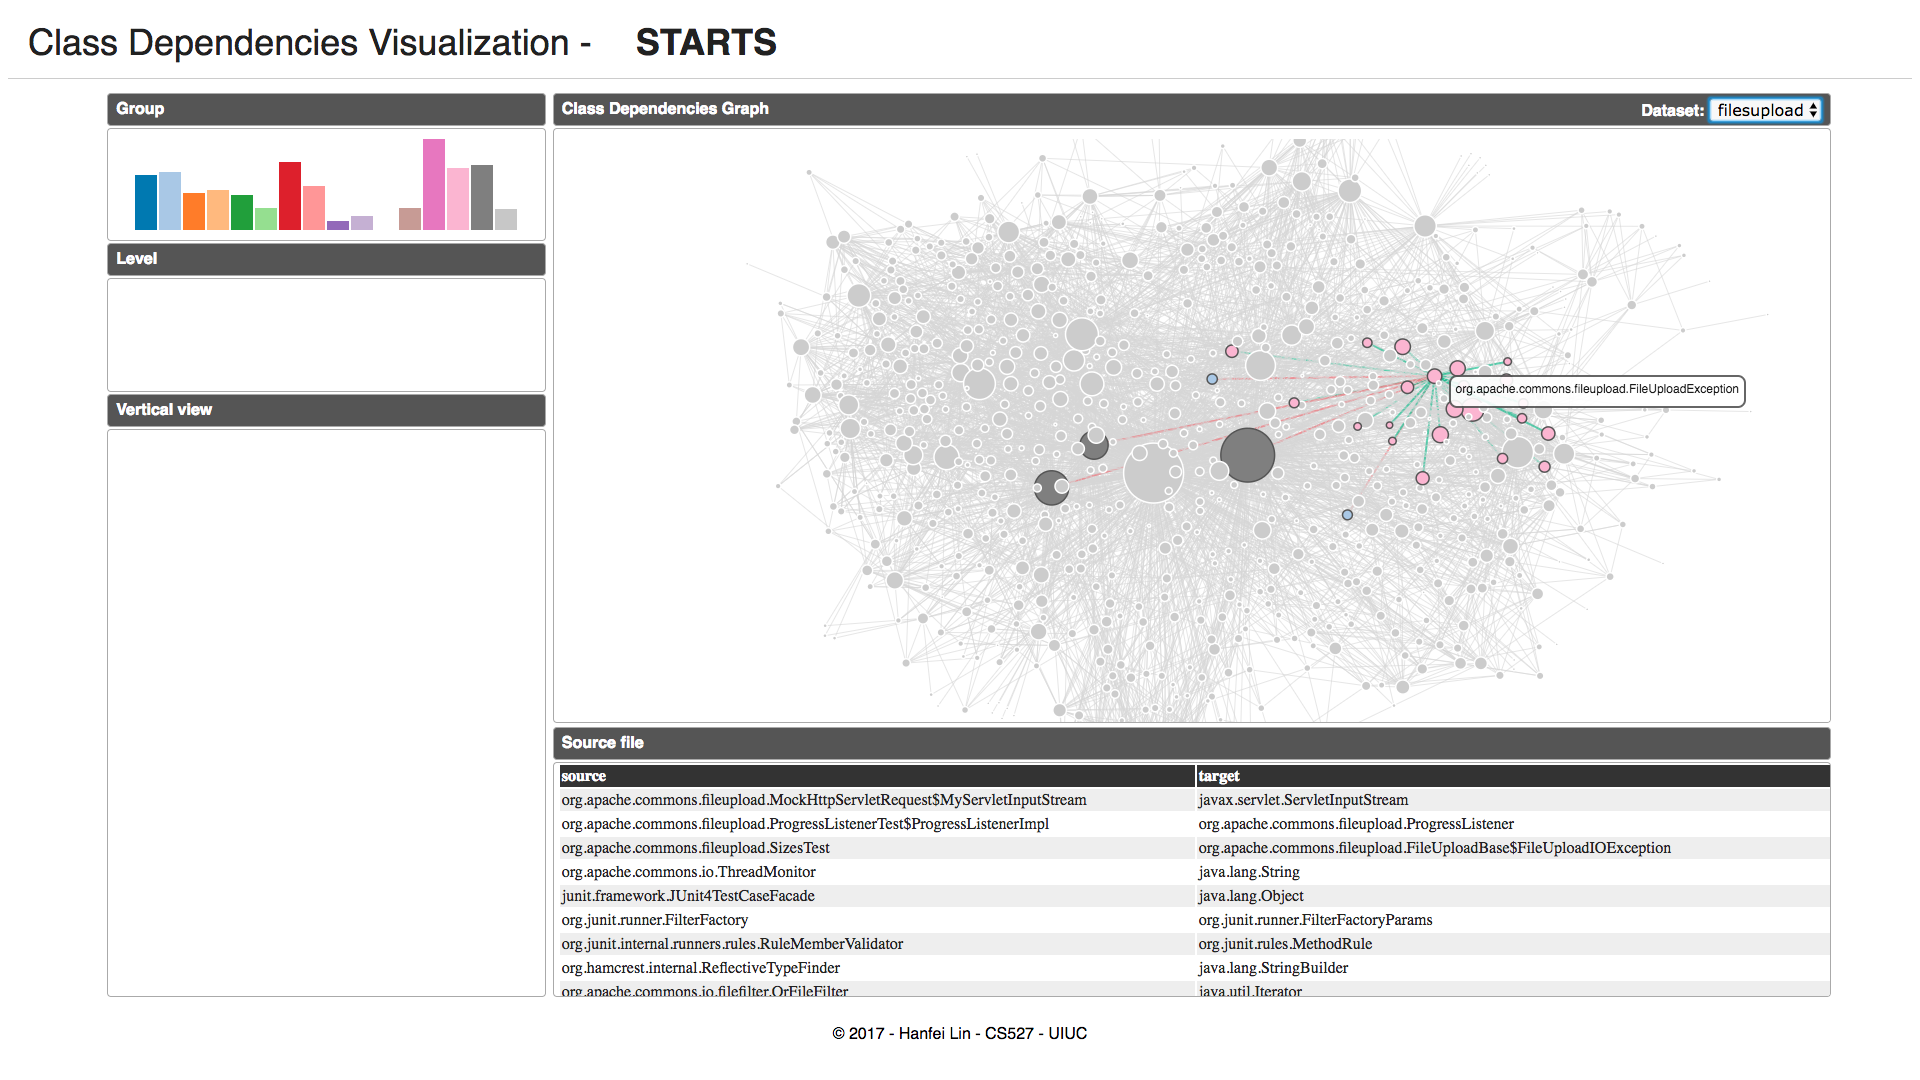
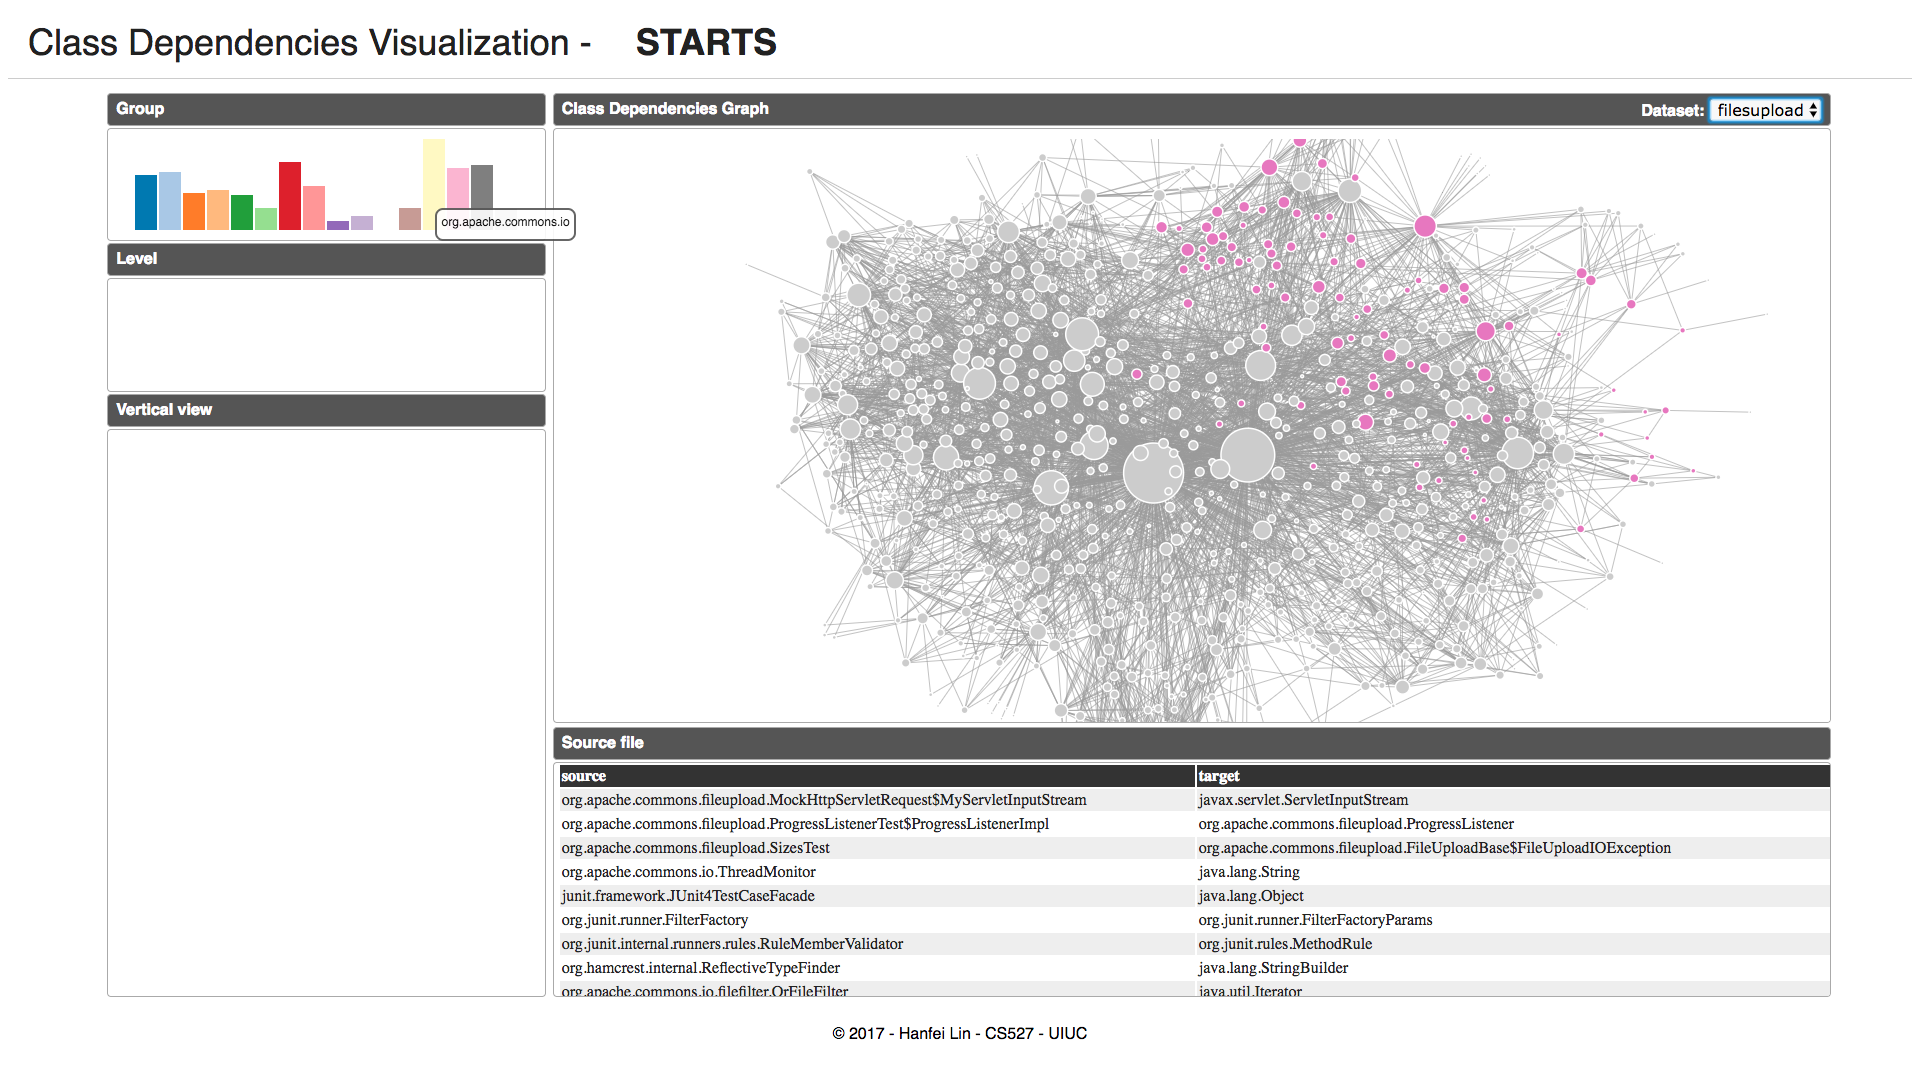
add select function

Changed region(s): [[0.4062, 0.1222, 0.9062, 0.6722], [0.2188, 0.1222, 0.3125, 0.2139]]

diff --git a/Class_dependencies_vis/app/static/js/mainview.js b/Class_dependencies_vis/app/static/js/mainview.js
@@ -31,8 +31,9 @@ vis.mainview = function(){
 	// Private Parameters
 	var nodes = [],
 			links = [],
-			simulation,
-			color;
+			selected = [];
+			simulation = null,
+			color = null;
 
 	///////////////////////////////////////////////////
 	// Public Function
@@ -40,6 +41,10 @@ vis.mainview = function(){
 
 		size[0] = parseInt(container.style("width"));
 		size[1] = parseInt(container.style("height"));
+
+		for(var i = 0; i < data.nodes.length; i++){
+			selected[data.nodes[i].id] = false;
+		}
 
 		return mainview;
 	};
@@ -117,28 +122,14 @@ vis.mainview = function(){
 				d3.selectAll("line").classed("unHighlightLinks", true);
 				d3.selectAll("circle").classed("classNodeUnlight", true);
 
-				//highlight the circle
-				d3.select(this).classed("classNode", false);
-				d3.select(this).classed("classNodeUnlight", false);
-				d3.select(this).classed("classNodeHightlight", true);
-
-				//highlight the links
-				for(var i = 0; i < data.links.length; i++){
-					//red: children
-					if (data.links[i].source.id == d.id){
-						d3.select("#l" + data.links[i].id).classed("unHighlightLinks", false);
-						d3.select("#l" + data.links[i].id).classed("highlightLinks1", true);
-						d3.select("#c" + data.links[i].target.id).classed("classNodeUnlight", false);
-						d3.select("#c" + data.links[i].target.id).classed("classNodeHightlight", true);
-					}
-					//green: fathers
-					if (data.links[i].target.id == d.id){
-						d3.select("#l" + data.links[i].id).classed("unHighlightLinks", false);
-						d3.select("#l" + data.links[i].id).classed("highlightLinks2", true);
-						d3.select("#c" + data.links[i].source.id).classed("classNodeUnlight", false);
-						d3.select("#c" + data.links[i].source.id).classed("classNodeHightlight", true);
+				for (i in selected){
+					if (selected[i]){
+						highlight(i, true);
 					}
 				}
+
+				highlight(d.id, true);
+
 			})
 
 			.on("mouseout", function(d){
@@ -148,16 +139,36 @@ vis.mainview = function(){
 						.duration(500)
 						.style("opacity", 0);
 
-				d3.selectAll("line").classed("highlightLinks1", false);
-				d3.selectAll("line").classed("highlightLinks2", false);
-				d3.selectAll("line").classed("unHighlightLinks", false);
-				d3.selectAll("circle").classed("classNodeUnlight", false);
-				d3.selectAll("circle").classed("classNodeHightlight", false);
+				if (!selected[d.id]){
+					highlight(d.id, false);
+				}
 
-				d3.select(this).classed("classNode", true);
+				for (i in selected){
+					if (selected[i]){
+						highlight(i, true);
+					}
+				}
+
 			})
 			.on("click", function(d){
-				dispatch.call("select", this, d);
+
+				var flag = selected[d.id];
+
+				for (i in selected){
+					selected[i] = false;
+				}
+
+				highlight(-1, false);
+
+				flag ? selected[d.id] = false : selected[d.id] = true;
+
+				if (selected[d.id]){
+					highlight(d.id, true);
+				} else {
+					highlight(d.id, false);
+				}
+
+				dispatch.call("select", this, d, selected[d.id]);
 			})
       .call(d3.drag()
           .on("start", dragstartedNode)
@@ -213,6 +224,41 @@ vis.mainview = function(){
 		return mainview;
 	};
 
+	mainview.select = function(className) {
+
+		var d = null;
+
+		console.log(data.nodes[0])
+
+		for (var i = 0; i < data.nodes.length; i++){
+			if (data.nodes[i].value == className){
+				d = data.nodes[i];
+			}
+		}
+
+		if (d == null){
+			return;
+		}
+		
+		var flag = selected[d.id];
+
+		for (i in selected){
+			selected[i] = false;
+		}
+
+		highlight(-1, false);
+
+		flag ? selected[d.id] = false : selected[d.id] = true;
+
+		if (selected[d.id]){
+			highlight(d.id, true);
+		} else {
+			highlight(d.id, false);
+		}
+
+		dispatch.call("select", this, d, selected[d.id]);
+	}
+
 	mainview.showGroup = function(group, show){
 		if (show){
 			container.selectAll(".classNode").classed("classNodeUnlight", true);
@@ -227,8 +273,48 @@ vis.mainview = function(){
 	///////////////////////////////////////////////////
 	// Private Functions
 
-	function private_function1() {
+	function highlight(j, flag) {
 
+		if (!flag){
+
+			d3.selectAll("line").classed("highlightLinks1", false);
+			d3.selectAll("line").classed("highlightLinks2", false);
+			d3.selectAll("line").classed("unHighlightLinks", false);
+			d3.selectAll("circle").classed("classNodeUnlight", false);
+			d3.selectAll("circle").classed("classNodeHightlight", false);
+			d3.selectAll("circle").classed("classNodeSelected", false);
+
+			if (j != -1){
+				d3.select("#c" + j).classed("classNode", true);
+			} else {
+				d3.selectAll("circle").classed("classNode", true);
+			}
+
+			return;
+		}
+
+		//highlight the circle
+		d3.select("#c" + j).classed("classNode", false);
+		d3.select("#c" + j).classed("classNodeUnlight", false);
+		d3.select("#c" + j).classed("classNodeSelected", true);
+
+		//highlight the links
+		for(var i = 0; i < data.links.length; i++){
+			//red: children
+			if (data.links[i].source.id == j){
+				d3.select("#l" + data.links[i].id).classed("unHighlightLinks", false);
+				d3.select("#l" + data.links[i].id).classed("highlightLinks1", true);
+				d3.select("#c" + data.links[i].target.id).classed("classNodeUnlight", false);
+				d3.select("#c" + data.links[i].target.id).classed("classNodeHightlight", true);
+			}
+			//green: fathers
+			if (data.links[i].target.id == j){
+				d3.select("#l" + data.links[i].id).classed("unHighlightLinks", false);
+				d3.select("#l" + data.links[i].id).classed("highlightLinks2", true);
+				d3.select("#c" + data.links[i].source.id).classed("classNodeUnlight", false);
+				d3.select("#c" + data.links[i].source.id).classed("classNodeHightlight", true);
+			}
+		}
 	};
 
 	function private_function2() {

diff --git a/Class_dependencies_vis/app/static/js/driver.js b/Class_dependencies_vis/app/static/js/driver.js
@@ -33,6 +33,11 @@ $(document).ready(function() {
 //////////////////////////////////////////////////////////////////////
 // local functions
 
+function search() {
+	var className = $("#cn").val();
+	mainview.select(className);
+}
+
 function display() {
 	// clean contents
 	d3.select("#mainview").selectAll("*").remove();
@@ -91,8 +96,13 @@ function wire_views(){
 	});
 
 	//mainview
-	mainview.dispatch.on('select', function(nodeInfo) {
-		vview.nodeInfo(nodeInfo).layout().render();
+	mainview.dispatch.on('select', function(nodeInfo, selected) {
+		if (selected){
+			vview.nodeInfo(nodeInfo).layout().render();
+		} else {
+			d3.select("#vview").selectAll("*").remove();
+		}
+
 	});
 
 }

diff --git a/Class_dependencies_vis/app/static/css/style.css b/Class_dependencies_vis/app/static/css/style.css
@@ -153,6 +153,26 @@ div.no_selection {
   font-family: sans-serif;
 }
 
+input {
+  width: 130px;
+  height: 20px;
+  background-color: #eeeeee;
+  border:none;
+  border-top-left-radius:5px;
+  border-bottom-left-radius:5px;
+  font: bold 12px 'lucida sans', 'trebuchet MS', 'Tahoma';
+}
+
+button{
+  width:60px;
+  height: 22px;
+  background-color:#d93c3c;
+  color:#fff;
+  border:none;
+  border-radius:0 5px 5px 0;
+  position: relative;
+}
+
 /* mainview style*/
 
 .links line {
@@ -185,6 +205,11 @@ div.no_selection {
 .classNodeHightlight {
   stroke: #555;
   stroke-width: 1.5px;
+}
+
+.classNodeSelected {
+  stroke: #FFEF82;
+  stroke-width: 5px;
 }
 
 .classNodeUnlight {

diff --git a/Class_dependencies_vis/app/static/index.html b/Class_dependencies_vis/app/static/index.html
@@ -48,6 +48,7 @@
 								<select id="dataset" onchange="display()">
 								</select>
 						</span>
+						<input id="cn" type="text" name="uname" placeholder=" enter class name"><button onclick="search()">SEARCH</button>
 					</div>
 					<div id="mainview" style="margin-top:2px; overflow:hidden" class="ui-widget-content ui-corner-all no_selection"></div>
 				</div>

diff --git a/Class_dependencies_vis/app/routes/index.py b/Class_dependencies_vis/app/routes/index.py
@@ -171,8 +171,8 @@ def _data(dataname):
 		children[node_id_map[index]] = []
 
 	for record in source:
-		fathers[node_id_map[record["target"]]].append(node_id_map[record["source"]])
-		children[node_id_map[record["source"]]].append(node_id_map[record["target"]])
+		fathers[node_id_map[record["source"]]].append(node_id_map[record["target"]])
+		children[node_id_map[record["target"]]].append(node_id_map[record["source"]])
 
 	for node in nodes_set:
 		node["fathers"] = fathers[node["id"]]
